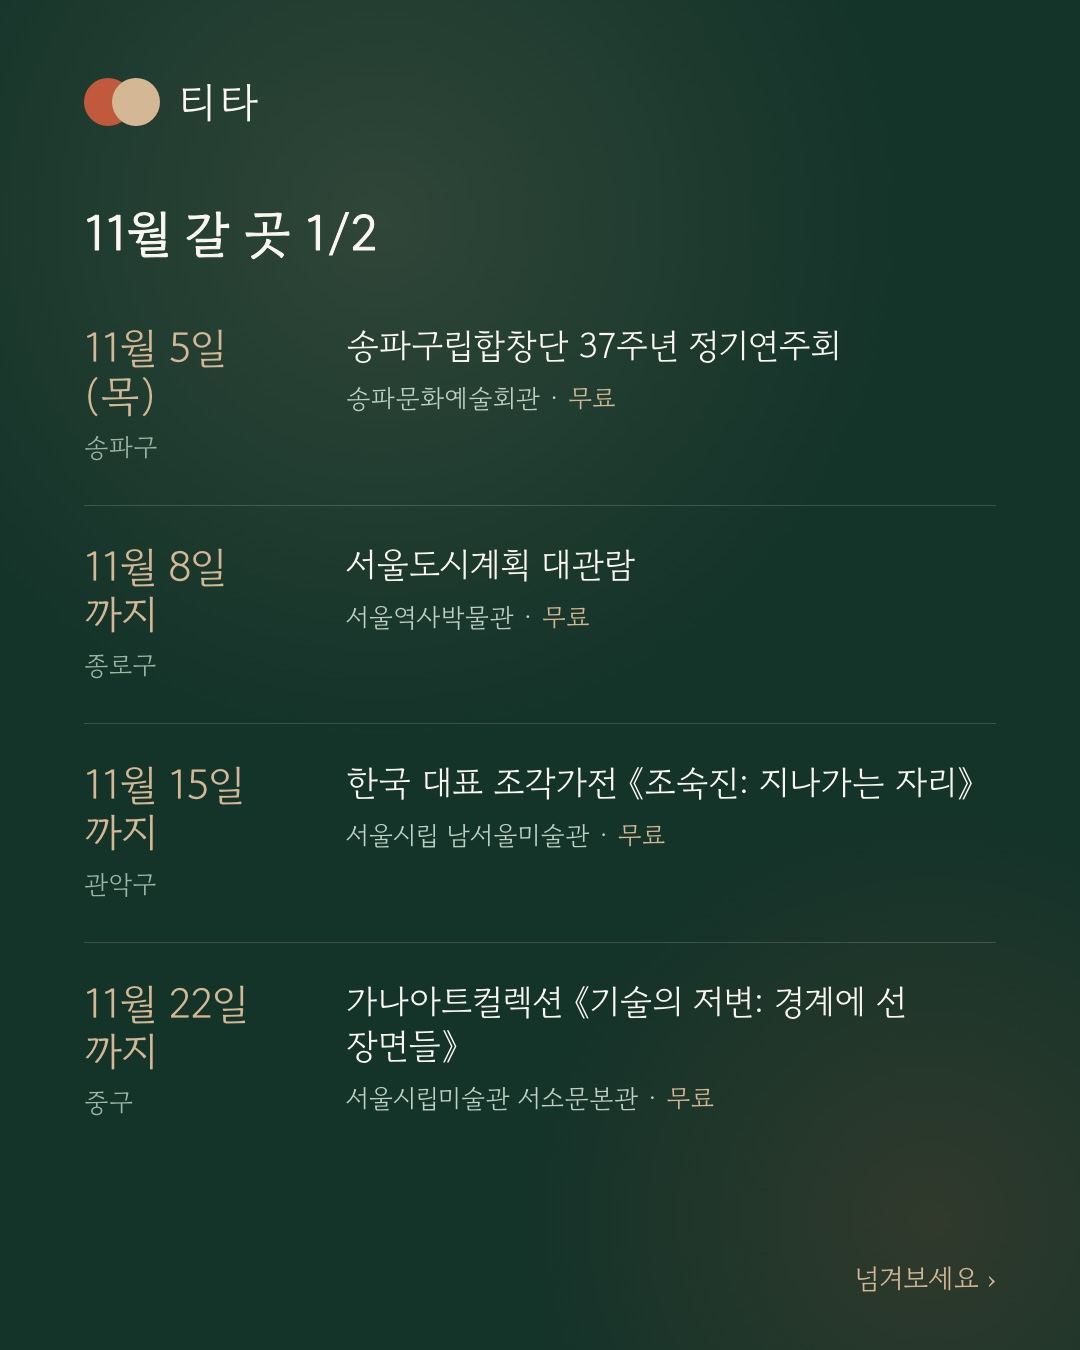
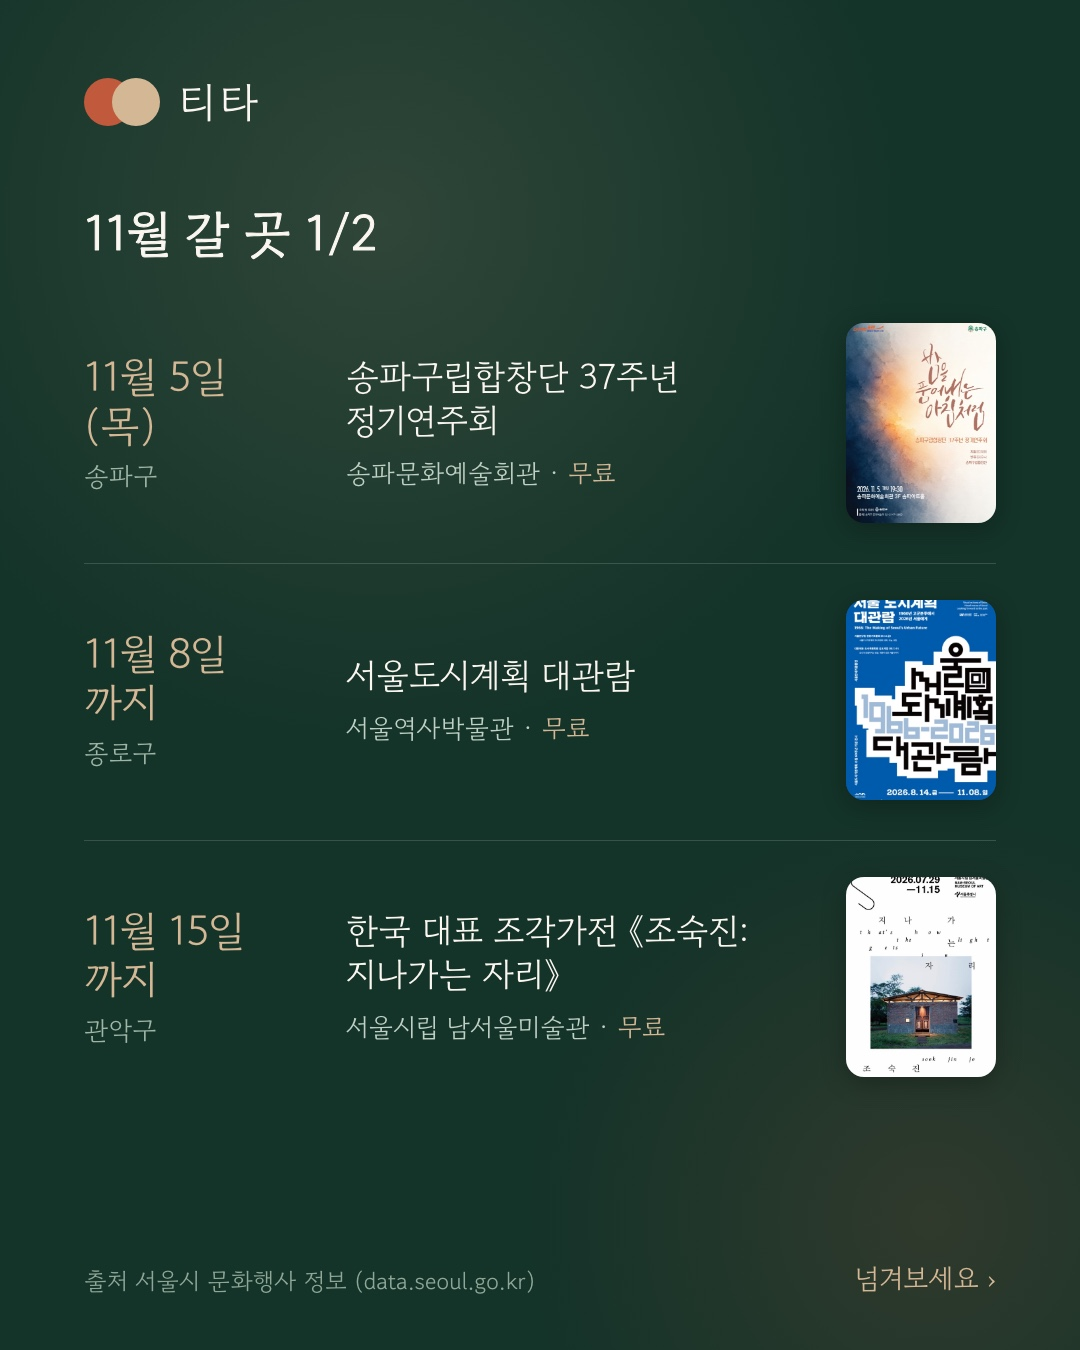
feat(카드): 갈 곳 일정 줄에 행사 포스터 썸네일 — 서울 데이터(공공누리 1유형) 출처 표기, 표지 이미지 옵션

diff --git a/scripts/instagram/README.md b/scripts/instagram/README.md
@@ -72,7 +72,11 @@ node scripts/instagram/seoul-events.mjs --list --days 30 --paid
 node scripts/instagram/seoul-events.mjs --make free-11-w2 --pick 1,3,4,7   # 번호로 골라 세트 생성(카드·스토리·캡션)
 ```
 
-생성물: `set.json`(카드 데이터) · `caption.txt` · `card-1..N.jpg` · `story.jpg`(9:16).
+생성물: `set.json`(카드 데이터) · `caption.txt` · `card-1..N.jpg` · `story.jpg`(9:16) · `thumb-N.jpg`(행사 포스터).
+포스터는 일정 줄 옆에 작게 붙는다(한 장 3줄). 데이터셋이 공공누리 1유형이라 카드 하단 출처 표기로 충분하다.
+포스터 안 작품 사진은 작가 저작물일 수 있어 전면에 크게 깔지 않는다. 빼려면 `--no-thumbs`.
+표지에 그림을 깔고 싶으면 `set.json`의 `cover.image`에 폴더 안 파일 이름(예: `cover.jpg`)을 적고 다시 굽는다 —
+생성 이미지는 장당 수십 원이 들고 행사 정보가 아니라서 특별한 세트에만.
 카드만 다시 구우려면 `node scripts/cards/gen-event-cards.cjs free-11-w2`.
 표지·스토리 색은 세트마다 돌아간다(forest → cream → terracotta → plum → teal). 처음 구울 때 `set.json`의 `theme`에
 적히므로 다시 구워도 같고, 바꾸려면 `--theme cream`처럼 준다. 일정·마무리 장은 늘 딥그린.
